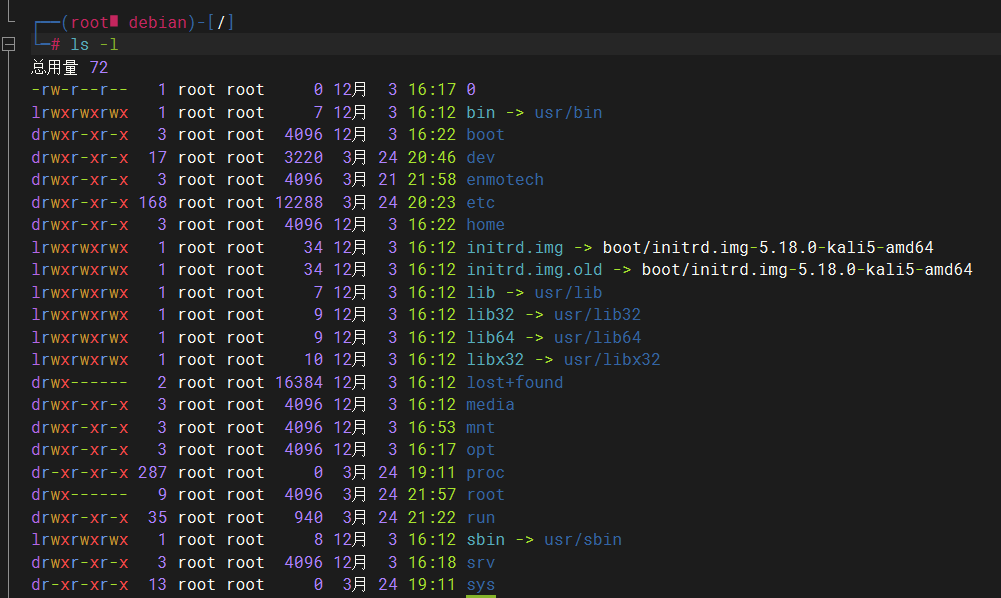
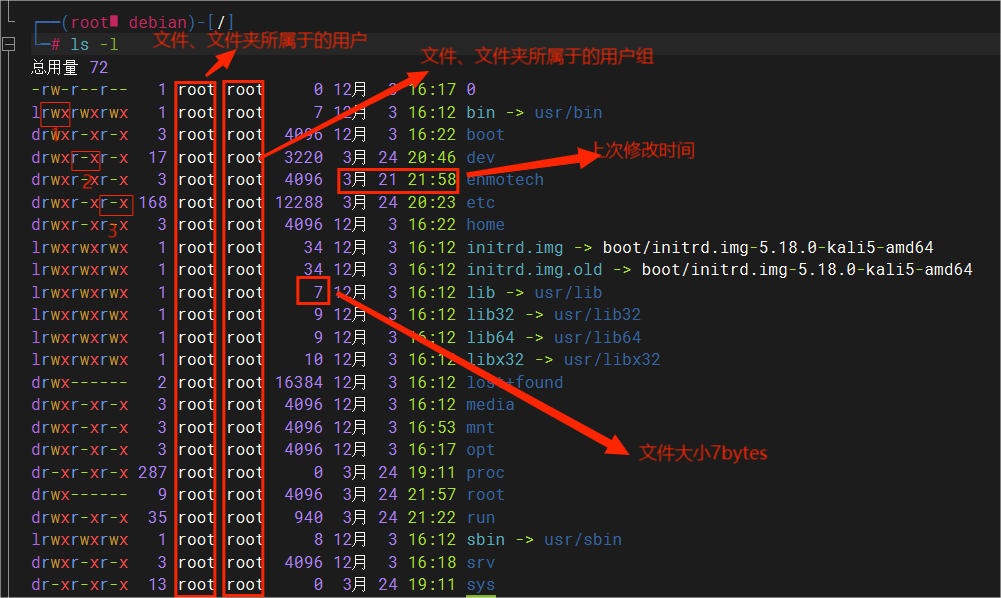
2023.3.30

diff --git a/linux/linux文件操作.md b/linux/linux文件操作.md
@@ -1,8 +1,28 @@
 # 1.文件权限
 
-<img src="images/image-20230324225545415.png" alt="image-20230324225545415" style="zoom: 80%;" />
+<img src="images/image-20230324225545415.png" alt="image-20230324225545415"  />
+
+<img src="images/image-20230329183309712.png" alt="image-20230329183309712" style="zoom: 80%;" />
 
 
+
+在 Linux 中，上面第二个图 第一个字符代表这个文件是目录、文件或链接文件等等。
+
+- 当为 **d** 则是目录
+- 当为 **-** 则是文件；
+- 若是 **l** 则表示为链接文档(link file)；
+- 若是 **b** 则表示为装置文件里面的可供储存的接口设备(可随机存取装置)；
+- 若是 **c** 则表示为装置文件里面的串行端口设备，例如键盘、鼠标(一次性读取装置)。
+
+后面的`rwx` r表示读权限、w表示写权限、x表示执行权限，如果为`-`表示没有这个权限，在图中，三个权限的表示顺序都是读r、写w、执行x。这三个权限的位置不会改变。
+
+r针对文件夹，表示可以查看文件夹内的内容
+
+w针对文件夹，表示可以在文件夹内进行创建、删除、改名等操作
+
+x针对文件表示可以执行这个文件，针对文件夹表示可以更改工作目录到这个文件夹，例如cd到这个目录。
+
+	
 
 # 2.文件操作
 
@@ -12,7 +32,7 @@
 
     选项：
 
-    - `-l`：长数据串列出，包含文件的属性与权限等等数据；(常用)
+    - `-l`：长数据串列出，包含文件的属性与权限等等数据；(常用) 等同`ll`
     - `-a`：全部的文件，连同隐藏文件( 开头为 . 的文件) 一起列出来(常用)
     - `-d`：仅列出目录本身，而不是列出目录内的文件数据(常用)
     - `-h`：显示文件的大小，需要与`-l`配合使用，即`ls -hl`	
@@ -25,11 +45,17 @@
 
 - `head [-n number] 文件`：显示文件的前几行，默认10行，-n 加数字指定显示的行数
 
-- `tail [-n number] 文件`：显示文件的后几行，默认10行，-n 加数字指定显示的行数    
+- `tail [-n number] 文件`：显示文件的后几行，默认10行，-n 加数字指定显示的行数
+    使用`-f `选项追踪文件，能实时查看文件更新
 
 - `cd [文件目录]`:跳转到指定的文件目录，如果不写文件目录，跳转到用户的home目录，root用户下为`/root`，自定义用户为`/home/用户名`
-    **特殊路径符**：`.`表示当前目录，`..`表示上一级目录，`~`表示用户home目录
+    **特殊路径符**：`.`表示当前目录，`..`表示上一级目录，`~`表示用户home目录```
+    
+- `which 命令`：查看命令存放的路径
 
+- `find 起始路径 -name 文件名`:查找一个文件，用root用户全盘搜索，文件名加上双引号`"*test"`，使用通配符查找
+
+- `find 起始路径 -size +|- 文件大小`：根据文件大小查找文件，示例：`find / -size +100k`查找大于100k的文件，大小单位有k、M、G。
 
 ## 2.2创建、删除
 
@@ -53,20 +79,42 @@
 ## 2.3复制、移动
 
 - `cp [options] 源文件路径 目的文件路径`:把文件从源路径复制到目的路径，
-    - **-a：**相当于 -pdr 的意思，至于 -pdr 请参考下列说明；(常用)
-    - **-d：**若来源档为链接档的属性(link file)，则复制链接档属性而非文件本身；
-    - **-f：**为强制(force)的意思，若目标文件已经存在且无法开启，则移除后再尝试一次；
-    - **-i：**若目标档(destination)已经存在时，在覆盖时会先询问动作的进行(常用)
-    - **-l：**进行硬式链接(hard link)的链接档创建，而非复制文件本身；
-    - **-p：**连同文件的属性一起复制过去，而非使用默认属性(备份常用)；
-    - **-r：**递归持续复制，用于目录的复制行为；(常用)
-    - **-s：**复制成为符号链接档 (symbolic link)，亦即『捷径』文件；
-    - **-u：**若 destination 比 source 旧才升级 destination ！
+    - `-a`：相当于 -pdr 的意思，至于 -pdr 请参考下列说明；(常用)
+    - `-d`：若来源档为链接档的属性(link file)，则复制链接档属性而非文件本身；
+    - `-f`：为强制(force)的意思，若目标文件已经存在且无法开启，则移除后再尝试一次；
+    - `-i`：若目标档(destination)已经存在时，在覆盖时会先询问动作的进行(常用)
+    - `-l`：进行硬式链接(hard link)的链接档创建，而非复制文件本身；
+    - `-p`：连同文件的属性一起复制过去，而非使用默认属性(备份常用)；
+    - `-r`：递归持续复制，用于目录的复制行为；(常用)
+    - `-s`：复制成为符号链接档 (symbolic link)，亦即『捷径』文件；
+    - `-u`：若 destination 比 source 旧才升级 destination ！
 
 - `mv [options] 源路径 目的路径`：把文件从源路径移动到目的路径，或者修改文件名称
-    - -f ：force 强制的意思，如果目标文件已经存在，不会询问而直接覆盖；
-    - -i ：若目标文件 (destination) 已经存在时，就会询问是否覆盖！
-    - -u ：若目标文件已经存在，且 source 比较新，才会升级 (update)
+    - `-f` ：force 强制的意思，如果目标文件已经存在，不会询问而直接覆盖；
+    - `-i` ：若目标文件 (destination) 已经存在时，就会询问是否覆盖！
+    - `-u` ：若目标文件已经存在，且 source 比较新，才会升级 (update)
+
+## 2.4文件权限修改
+
+- `chmod [-R] 权限 文件|文件夹` 修改文件的权限信息，加上-R选项对文件夹内的全部文件执行同样的修改
+    示例：`chmod 777 test.txt` 修改test文件的权限为 rwx rwx rwx，7表示二进制111。此命令只能是root用户或文件所属于的用户修改相应的文件权限。
+    
+- `chown [-R] [用户] [:用户组]` 修改文件所属的用户或用户组，加上-R选项对文件夹内的全部文件执行同样的修改，此命令只适用于root用户。
+
+    示例：`chown :t1 test.txt` 修改test文件的所属用户组为t1，chown t1 test.txt` 修改test文件的所属用户为t1
 
 
 
+# 3.补充
+
+- `echo 输出的内容`：将内容输出到控制台，复杂内容用双引号括起来，可用于shell脚本输出，使用 ``将命令包裹，打印出命令执行的结果。
+- `>`：重定向符，将左侧的结果**覆盖**写到右侧的文件中
+- `>>`：重定向符，将左侧的结果追加写到右侧的文件中
+- `|`：管道符，将左边命令的结果，作为右边命令的内容源输入
+    ![image-20230329125958994](images/image-20230329125958994.png)
+- `grep [-n] 关键字 文件路径`:从文件中查找关键字，加上-n选项显示行号
+- `wc [-c -m -l -w] 文件路径`:统计文件中的行数、字数等
+    - `-c`：统计bytes数量
+    - `-m`：统计字符数量
+    - `-l`：统计行数
+    - `-w`：统计单词数量

diff --git a/linux/linux用户管理.md b/linux/linux用户管理.md
@@ -1,0 +1,87 @@
+# 1.概述
+
+Linux 允许不同的用户同时登录主机，同时使用主机的资源，因此 Linux 被称为是多用户系统
+
+Linux 将用户账号、密码等相关的信息分别存储在四个文件夹下
+
+- `/etc/passwd`  管理用户UID/GID重要参数
+
+    ```text
+    账号名称 : 密码 : UID : GID : 用户信息说明列 : 主文件夹 : shell
+    root   : x    : 0   : 0   : root         : /root  : /bin/bash
+    ```
+
+    密码项显示 “x” 是出于安全考虑，Linux 将密码信息移到 /etc/shadow 进行存储；
+
+    每一个用户都有一个UID、GID，对应的含义就是UserID、GroupID，UID 会映射到 /etc/shadow 以获得密码信息，GID 会映射到 /etc/group 以获取用户的用户组信息。
+
+- `/etc/shadow` 管理用户密码
+
+    ```text
+    账号名称:密码 : 最近改动密码的日期 : 密码不可被改变的天数 : 密码需要重新更改的天数 : 更改提醒天数 : 密码过期后账号的宽限时间 : 账号失效日期 : 保留
+    root  :密文 :  200             :0                 : 99999              :7            :::
+    ```
+
+    /etc/passwd 通过 UID，在该文件中找出对应 UID 的用户，并提取对应密码用于登陆验证
+
+- `/etc/group` 管理用户组相关信息
+
+    ```text
+    用户组名称 : 用户组密码 : GID : 此用户组包含的账号名称
+    root     : x        : 0    : root
+    ```
+
+    用户组密码通常是为了设置用户组管理员存在的，其信息也移动到 `/etc/gshadow` 中；
+
+    `/etc/passwd` 通过 GID，在该文件中找到对应的用户组，并提取用户组相关信息；
+
+    另外，由于一个用户可以在多个用户组中，因此就有一个初始用户组、有效用户组的概念。
+
+    所谓的初始用户组，就是用户所记录的 GID，是在创建用户时生成或指定的用户组；
+
+    所谓的有效用户组，就是利用命令`groups` 查看并输出的首个用户组，即有效用户组；
+
+    用户在登录的时候，以初始用户组身份工作，用户可以用 `newgrp` 命令实现有效用户组的切换。
+
+- `/etc/gshadow` 管理用户组管理员相关信息，一般用户组不使用用户组管理员，相应地也就不需要设置密码。
+
+    ```text
+    用户组名 : 密码 : 用户组管理员账号 : 该用户组包含的账号名称
+    root : : : root
+    ```
+
+# 2.用户操作
+
+- `id 用户名`：查看用户id，用户的用户组
+
+- `su [-] [用户名]`:切换用户，`-`是可选的，加上表示切换用户后加载环境变量，不带用户名`su`直接切换到root用户，root可以不用密码切换到其他用户，其他普通用户切换用户需要密码。
+
+- `sudo 其他命令`：使用sudo临时授权命令使用root权限执行，不是所有用户都有sudo权限，需要为普通用户配置sudo认证。
+    root用户使用`visudo`命令，进入`/etc/sudoers`文件，最后一行添加`用户名 ALL=(ALL)  NOPASSWD:ALL`可以为一个用户添加sudo权限，NOPASSWD表示不需要输入密码。
+    
+- `useradd [选项] 用户名`：添加一个用户，增加用户账号就是在`/etc/passwd`文件中为新用户增加一条记录，同时更新其他系统文件如`/etc/shadow`, `/etc/group`等。Linux提供了集成的系统管理工具userconf，它可以用来对用户账号进行统一管理。
+    - `-c` comment 指定一段注释性描述。
+    - `-d` 指定用户主目录，如果此目录不存在，则同时使用-m选项，可以创建主目录。默认创建和用户名同名的主目录
+    - `-g` 指定用户所属的主用户组。不指定默认创建和用户名同名的组
+    - `-G` 指定用户所属于的其他用户组
+    - `-s` 指定用户的登录Shell。
+    - `-u` 指定用户的用户号，如果同时有-o选项，则可以重复使用其他用户的标识号。
+    
+- `userdel [-r] 用户名` 删除一个用户，加上-r可以把用户的home目录也删除了，home目录即`/home/用户目录`
+
+- `usermod -aG 用户组 用户名` 将指定用户加入用户组
+
+- `getent passwd` 查看所有用户
+
+    
+
+# 3.用户组
+
+linux中可以针对用户、用户组来进行权限的控制。可以添加多个用户、用户组。同时一个用户能加入多个组。
+
+- `groupadd 用户组名` 创建一个用户组
+- `groupdel  用户组名` 删除一个用户组
+- 
+
+
+

diff --git a/docker/docker搭建hadoop.md b/docker/docker搭建hadoop.md
@@ -24,7 +24,7 @@
     RUN curl -o /etc/yum.repos.d/CentOS-Base.repo http://mirrors.aliyun.com/repo/Centos-7.repo && \
     	sed -i -e '/mirrors.cloud.aliyuncs.com/d' -e '/mirrors.aliyuncs.com/d' /etc/yum.repos.d/CentOS-Base.repo && \
     	yum makecache && \
-    	yum install -y openssh-server openssh-clients && \
+    	yum install -y openssh-server openssh-clients vim && \
     	sed -i '/^HostKey/'d /etc/ssh/sshd_config && \
     	echo 'HostKey /etc/ssh/ssh_host_rsa_key' >> /etc/ssh/sshd_config && \
     	# 生成密匙
@@ -41,14 +41,14 @@
 
     运行`docker build -t centos_hadoop:1.0 .`，生成镜像。
 
-# 2.构建docker-compose 
+# 2.构建docker-compose
 
 1. 编辑`docker-compose.yml`，搭建三个节点的集群
 
-    |      | hadoop102            | hadoop103                      | hadoop104                     |
-    | :--- | :------------------- | :----------------------------- | ----------------------------- |
-    | HDFS | NameNode \| DataNode | DataNode                       | SecondaryNameNode \| DataNode |
-    | YARN | NodeManager          | ResourceManager \| NodeManager | NodeManager                   |
+|      | hadoop102            | hadoop103                      | hadoop104                     |
+| :--- | :------------------- | :----------------------------- | ----------------------------- |
+| HDFS | NameNode \| DataNode | DataNode                       | SecondaryNameNode \| DataNode |
+| YARN | NodeManager          | ResourceManager \| NodeManager | NodeManager                   |
 
 Hadoop 3.x 中常用的端口如下：
 
@@ -102,7 +102,7 @@ networks:
 编辑好后使用`docker-compose config -q` 检查是否有错误输出，有错误请修改。
 无错误使用`docker-compose up -d` 启动集群。
 
-最新版的docker貌似没有docker-compose命令，而是docker comspose命令，少了一个 - 。
+最新版的docker貌似没有docker-compose命令，而是docker comspose命令，少了一个 - 。doc
 
 # 3.设置hadoop的配置并分发到其他机器
 
@@ -244,9 +244,7 @@ networks:
         </property>
     </configuration>
     ```
-```
-    
-    `vim mapred-site.xml`
+	`vim mapred-site.xml`
     
     ```xml
     <configuration>
@@ -266,10 +264,10 @@ networks:
         <property>
             <name>mapreduce.jobhistory.webapp.address</name>
             <value>hadoop102:19888</value>
-        </property>
-    </configuration>
-```
-
+	    </property>
+</configuration>
+    ```
+    
 4. 修改配置文件workers，`vim workers`，把原本的localhost删除
 
     ```
@@ -341,7 +339,6 @@ networks:
 <img src="images/image-20230326225527589.png" alt="image-20230326225527589" style="zoom:50%;" />
 
 <img src="images/image-20230326234902433.png" alt="image-20230326234902433" style="zoom: 67%;" />
-
 
 
 

diff --git a/linux/apt、yum常用命令.md b/linux/apt、yum常用命令.md
@@ -1,14 +1,16 @@
+# 1.apt
+
 apt（Advanced Packaging Tool）是一个在 Debian 和 Ubuntu 中的 Shell 前端软件包管理器。
 
 apt 命令提供了查找、安装、升级、删除某一个、一组甚至全部软件包的命令，而且命令简洁而又好记。
 
 apt 命令执行需要超级管理员权限(root)。
 
-# 1.升级、安装
+## 1.1升级、安装
 
 `apt-get update`:更新源文件，并不会做任何安装升级操作
 `apt-get upgrade`:升级所有已安装的包
-`apt-get install packagename`:安装指定的包
+`apt-get install packagename`:安装指定的包+
 `apt-get install packagename --only-upgrad`:仅升级指定的包
 `apt-get install packagename --reinstall`:重新安装包
 `apt-get -f install`:修复安装
@@ -16,25 +18,28 @@ apt 命令执行需要超级管理员权限(root)。
 `apt-get source packagename`:下载该包的源代码
 `apt-get dist-upgrade`:升级系统
 `apt-get dselect-upgrade`:使用 dselect 升级
-# 2.查询、显示
+
+## 1.2查询、显示
+
 `apt-cache search packagename`：查询指定的包  　　
 `apt-cache show packagename`：显示包的相关信息，如说明、大小、版本等 
 `apt-cache depends packagename`：了解使用该包依赖哪些包
 `apt-cache rdepends packagename`：查看该包被哪些包依赖
 `dpkg -l`:查看所有安装的包
 
-# 3.删除
+## 1.3删除
 
 `apt-get remove packagename`：删除包  　　
-`apt-get remove packagename -- purge`：删除包，包括删除配置文件等 
+`apt-get remove packagename --purge`：删除包，包括删除配置文件等 
 `apt-get autoremove packagename --purge`：删除包及其依赖的软件包+配置文件等（只对6.10有效，推荐使用）
-# 4.清理、检查
+
+## 1.4清理、检查
 
 `apt-get clean`：清理无用的包 
 `apt-get autoclean`：清理无用的包 
 `apt-get check`：检查是否有损坏的依赖
 
-# 5.参数
+## 1.5options
 
 - -h 		帮助文件。  
 - -q 		输出到日志 - 无进展指示  

diff --git a/linux/linux网络设置.md b/linux/linux网络设置.md
@@ -1,5 +1,7 @@
 # 1. 静态ip
 
+## 1.1debian系列linux的ip设置
+
 1. `vim /etc/network/interfaces`
 
 2. 文件中添加静态ip设置，network和broadcast一般不用设置。
@@ -16,7 +18,9 @@
 
 3. 重启`service networking restart`
 
-如果是centos，要修改的文件是：`/etc/sysconfig/network-scripts/ifcfg-ens33`
+## 1.2centos的ip设置
+
+如果是centos，要修改的文件是：`/etc/sysconfig/network-scripts/ifcfg-ens33`，有的centos版本默认网卡也改名成eth0了就修改`/etc/sysconfig/network-scripts/ifcfg-eth0`文件，修改后记得重启网络服务。
 
 ```properties
 DEVICE=ens33
@@ -58,6 +62,6 @@ DNS1=192.168.10.2
     ```
 
     添加后就可以直接通过ping 主机名的方式连通其他主机，并且主机的ip修改后只需要修改hosts文件即可，不在需要在代码中一个个修改ip
-
-windows中添加ip与主机映射需要修改文件`C:\Windows\System32\drivers\etc\hosts`,修改后保存副本，然后再用副本替换原来的hosts文件即可
+    
+    windows中添加ip与主机映射需要修改文件`C:\Windows\System32\drivers\etc\hosts`,修改后保存副本，然后再用副本替换原来的hosts文件即可
 

diff --git a/linux/linux shell快捷键.md b/linux/linux shell快捷键.md
@@ -1,0 +1,22 @@
+1. `Ctrl + a`：将光标移动到命令行的开头
+2. `Ctrl + e`：将光标移动到命令行的末尾
+3. `Ctrl + u`：删除光标之前的所有字符
+4. `Ctrl + k`：删除光标之后的所有字符
+5. `Ctrl + w`：删除光标之前的一个单词
+6. `Ctrl + y`：粘贴最后一次删除的字符
+7. `shift + ctrl + c`：复制
+8. `Shift + Ctrl + c`：粘贴
+9. `Ctrl + l`：清屏
+10. `Ctrl + c`：中断当前的命令
+11. `Ctrl + d`：退出当前的shell会话
+12. `Ctrl + z`：将当前的命令放入后台运行，并暂停当前的shell会话
+13. `Ctrl + ←`：左移一个单词
+14. `history` 列出历史输入过的命令
+15. `ctrl + r` 搜索历史命令，通过回车执行，左右键获取命令（不执行）
+16. `ctrl + s`：挂起终端，感觉类似于暂停
+17. `ctrl + q ` 退出挂起
+18. `Tab` 按一次补全命令，两次列出所有可补全列表
+
+
+
+鼠标滚轮：如果用鼠标选中一段连续的文本，直接点击鼠标滚轮即可完成复制、粘贴的功能，粘贴位置在当前活动光标处。

diff --git a/docker/docker网络.md b/docker/docker网络.md
@@ -28,7 +28,7 @@ docker有四种网络模式：
 
 3. **none **  使用方式:`--network none`
 
-    容器有独立的 Network namespace，但并没有对齐进行任何网络设置，如分配 `veth pari` 和 网桥连接、IP等，禁用网络功能。
+    容器有独立的 Network namespace，但并没有对其进行任何网络设置，如分配 `veth pari` 和 网桥连接、IP等，禁用网络功能。
 
     在`none`模式下，并不为docker容器进行任何网络配置。进入容器内，使用 `ip addr`查看网卡信息，只能看到 `lo`（本地回环网络`127.0.0.1`网卡）。
 

diff --git a/Git系列笔记/git使用.md b/Git系列笔记/git使用.md
@@ -159,7 +159,7 @@ git:分布式版本控制工具，它具有以下几个概念
 
 github 网址：[https://github.com](https://github.com)
 
-全球最大的男同交流网站，你还在等什么？进来打开新世界的大门！看点不一样的刺激项目！
+全球最大的男性交流网站，你还在等什么？进来打开新世界的大门！看点不一样的刺激项目！
 
 ## 3.1推送本地项目到远程库
 
